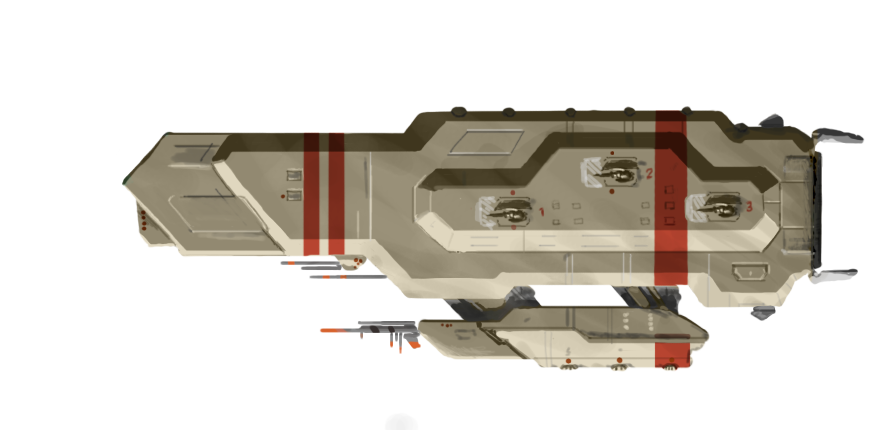
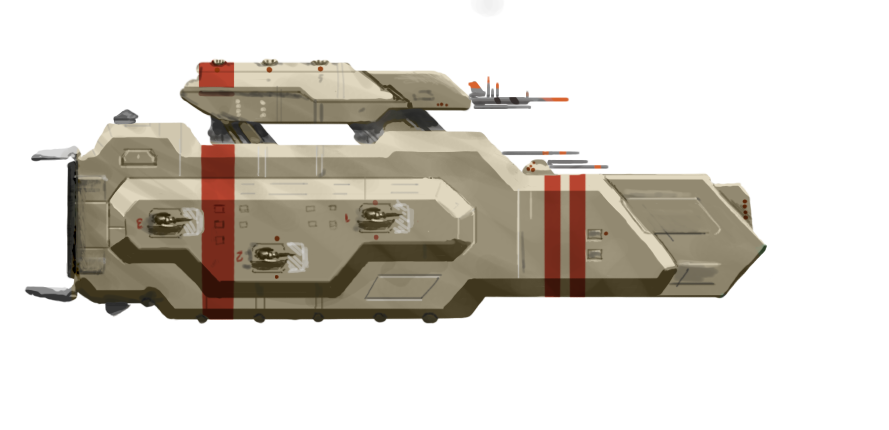
Rotated the ship image so it is pointing to 0 degrees.
Multiplayer inputs are now possible. The player can move in a reasonably comfortable manner now. 

The physics bug is not fixed, but worked around.

diff --git a/src/ammo/game/gameobjects/playerobject.cpp b/src/ammo/game/gameobjects/playerobject.cpp
@@ -24,13 +24,16 @@ namespace ammo
     }
     if (_input.GetValue(ammo::enums::THRUST) > 0.0f )
     {
+      
       float theta = _physic.GetTheta();
       float thrust = THRUST_RATE;
       if (_input.GetValue(ammo::enums::AFTERBURN) > 0.0f)
       {
         thrust *= BURN_MULTIPLIER;
       }
-      _physic.SetVelocity(_physic.GetVelocity() + thrust * (b2Vec2((float)cos(theta), (float)sin(theta))));
+      //cout << _physic.GetVelocity().x << " " << thrust << " "<< (float)cos(theta) << " " << (float)sin(theta) << endl;      
+      _physic.SetVelocity(_physic.GetVelocity() + thrust * b2Vec2((float)cos(theta), (float)sin(theta)));
+      //_physic.SetVelocity(b2Vec2(1.f, 1.f));
     }    
     if (_input.GetValue(ammo::enums::REVERSE) > 0.0f )
     {
@@ -38,16 +41,34 @@ namespace ammo
       _physic.SetVelocity(_physic.GetVelocity() - THRUST_RATE * (b2Vec2((float)cos(theta), (float)sin(theta))));
     }
 
-    // Cap our velocity
-    if (_physic.GetVelocity().LengthSquared() > MAX_SPEED_SQUARED)
-    {
-      _physic.GetVelocity().Normalize();
-      _physic.SetVelocity(MAX_SPEED * _physic.GetVelocity());
-    }
 
+
+      // Cap our velocity
+      if (_physic.GetVelocity().LengthSquared() > MAX_SPEED_SQUARED)
+      {      
+        
+        float x = _physic.GetVelocity().x;
+        float y = _physic.GetVelocity().y;
+        
+        float len = sqrt((x*x)+(y*y));
+        b2Vec2 norm(x/len, y/len);
+        
+
+        norm *= MAX_SPEED;
+        
+        _physic.SetVelocity(norm);
+        //float test = _physic.GetVelocity().Normalize();
+        
+        //_physic.SetVelocity(MAX_SPEED * _physic.GetVelocity());
+      }
+    
+    //cout << "Server: " << _physic.GetVelocity().x << " " << _physic.GetVelocity().y << " " << _physic.GetPosition().x << " " << _physic.GetPosition().y << endl;
+    
+      //cout << "Client: " << _physic.GetVelocity().x << " " << _physic.GetVelocity().y << " " << _physic.GetPosition().x << " " << _physic.GetPosition().y << endl;
     // Update our sprite's information 
     _sprite.SetPosition(_physic.GetPosition());     
     _sprite.SetRotationRadians(_physic.GetTheta());
+    
     
   }
   // Serializes the player. If the player is on the client, it serializes only the input information,
@@ -101,7 +122,7 @@ namespace ammo
   {
     // Get our sprite
     _sprite = _parent->GetGraphicSys()->getGraphic("player");
-    _sprite.SetSize(b2Vec2(9.8f,25.6f));        
+    _sprite.SetSize(b2Vec2(2.56f,.98f));        
     
     _sprite.show();
 
@@ -110,18 +131,19 @@ namespace ammo
     
     // Get our 'physic'
     _physic = _parent->GetPhysicsSys()->GetPhysic("player", *this);
-    //_physic.SetPosition(b2Vec2(0.0f, 0.0f));
+    _physic.SetPosition(b2Vec2(1.0f, 1.0f));
     // Give the player some initial velocity
-    _physic.SetVelocity(b2Vec2(0.0f, 0.0f));
+    _physic.SetVelocity(b2Vec2(.125f, 0.0f));    
     // And some initial rotation, for fun
     _physic.SetOmega(0.0f);
 
-    _input = _parent->GetInputSys()->GetInput("player");
+    
     // Point our local gamestate's camera at us
     if (!_parent->GetGameState()->GetIsAuthority() && _parent->GetNetPeer()->GetLocalAddress() == _owner)
     {
       // But only if this is a client, and this is our player
       _parent->SetCameraTarget((ICameraTarget*)(&_physic));
+      _input = _parent->GetInputSys()->GetInput(_owner);
     }
   }
 
@@ -139,6 +161,7 @@ namespace ammo
   bool PlayerObject::SerializeServerSide(RakNet::BitStream* bitStream, RakNet::SerializationContext* serializationContext)
   {    
     bitStream->Write(_physic.GetPosition());
+    bitStream->Write(_physic.GetVelocity());
     bitStream->Write(_physic.GetTheta());
     bitStream->Write(_physic.GetOmega());
     return true;
@@ -149,11 +172,17 @@ namespace ammo
   {
     b2Vec2 temp;
     float ftemp;
+    bitStream->Read(temp);    
+    _physic.SetPosition(temp);    
+
     bitStream->Read(temp);
+    _physic.SetVelocity(temp);
+    
+
     bitStream->Read(ftemp);
-    _physic.SetPosition(temp);
     _physic.SetTheta(ftemp);
-    (*bitStream) >> ftemp;
+  
+    bitStream->Read(ftemp);
     _physic.SetOmega(ftemp);
 
     return true;

diff --git a/src/ammo/game/client.cpp b/src/ammo/game/client.cpp
@@ -21,7 +21,7 @@ namespace ammo
     // Set up our viewport
     // TODO: Don't Hardcode these!
     _view = new ammo::View(*_app);
-    _view->setWidth(200);
+    _view->setWidth(40);
     _view->lookAt(b2Vec2(0, 0));
 
     _gameState = new ProxyGameState(this);
@@ -42,23 +42,17 @@ namespace ammo
     // Create our physics blueprints
     // TODO: Create these from a file
     Polygon myPoly;   
-    myPoly.polygon_blueprint.density = 1;
-    myPoly.polygon_blueprint.SetAsBox(4.8f, 12.8f);             
+    myPoly.polygon_blueprint.density = .1;
+    myPoly.polygon_blueprint.friction = 0;
+    myPoly.polygon_blueprint.SetAsBox(.48f, 1.28f);             
     _physic->AddBluePrint("player", myPoly);
+    _peer = new NetPeer(this, false);
     
-
     // Create our input system
     _input = new InputSys();
-    std::vector<ammo::InputAction*> actions;
-    actions.push_back(new SingleKeyBoolean(sf::Key::W, enums::THRUST));
-    actions.push_back(new SingleKeyBoolean(sf::Key::A, enums::LEFT));
-    actions.push_back(new SingleKeyBoolean(sf::Key::D, enums::RIGHT));
-    actions.push_back(new SingleKeyBoolean(sf::Key::S, enums::REVERSE));
-    actions.push_back(new SingleKeyBoolean(sf::Key::LControl, enums::AFTERBURN));
-    //actions.push_back(// Some input action
-    _input->AddInputMap("player", actions);
+    
 
-    _peer = new NetPeer(this, false);
+    
     _isDestroyed = false;
   }
 
@@ -150,6 +144,26 @@ namespace ammo
 
   bool Client::Connect(const char* host,unsigned short remotePort, const char* passwordData,int pwdDataLength)
   {
-    return _peer->Connect(host, remotePort, passwordData, pwdDataLength);
+    
+    bool result = _peer->Connect(host, remotePort, passwordData, pwdDataLength);
+
+    if (result)
+    {
+    #ifdef WIN32
+        Sleep(500);
+    #else
+        usleep(500*1000);
+    #endif
+    std::vector<ammo::InputAction*> actions;
+    actions.push_back(new SingleKeyBoolean(sf::Key::W, enums::THRUST));
+    actions.push_back(new SingleKeyBoolean(sf::Key::A, enums::LEFT));
+    actions.push_back(new SingleKeyBoolean(sf::Key::D, enums::RIGHT));
+    actions.push_back(new SingleKeyBoolean(sf::Key::S, enums::REVERSE));
+    actions.push_back(new SingleKeyBoolean(sf::Key::LControl, enums::AFTERBURN));
+    //actions.push_back(// Some input action
+    _input->AddInputMap(_peer->GetLocalAddress(), actions);
+    }
+
+    return result;
   }
 }

diff --git a/src/ammo/game/server.cpp b/src/ammo/game/server.cpp
@@ -20,13 +20,13 @@ namespace ammo
     _sound = new PassiveSoundSys();
     _physic = new ActivePhysicSys();
     _input = new InputSys();
-    std::vector<ammo::InputAction*> actions;
-    _input->AddInputMap("player", actions);
+    
     // Add our Physics Blueprints
     // TODO: Read these from some sort of file
     Polygon myPoly;
-    myPoly.polygon_blueprint.density = 1;
-    myPoly.polygon_blueprint.SetAsBox(4.8f, 12.8f);//, b2Vec2(4.8f, 12.8f), 0.0f);
+    myPoly.polygon_blueprint.density = .1f;
+    myPoly.polygon_blueprint.friction = 0.f;
+    myPoly.polygon_blueprint.SetAsBox(.48f, 1.28f);//, b2Vec2(4.8f, 12.8f), 0.0f);
     _physic->AddBluePrint("player", myPoly);
   }
 
@@ -77,6 +77,9 @@ namespace ammo
       case ID_NEW_INCOMING_CONNECTION:				
         printf("ID_NEW_INCOMING_CONNECTION from %s\n", packet->systemAddress.ToString());   
         // When a new player connects, we need to add that player object to the game
+        
+        _input->AddInputMap(packet->systemAddress, std::vector<ammo::InputAction*>());
+
         newPlayer = new PlayerObject(packet->systemAddress);
         newPlayer->AddAutoSerializeTimer(0);        
         _gameState->RegisterGameObject(newPlayer);

diff --git a/src/ammo/input/input_sys.cpp b/src/ammo/input/input_sys.cpp
@@ -6,15 +6,15 @@
 
 namespace ammo
 {
-    void InputSys::AddInputMap(std::string name, std::vector<InputAction*> inputMap)
+    void InputSys::AddInputMap(SystemAddress owner, std::vector<InputAction*> inputMap)
     {
         InputImpl impl(inputMap);
-        _impls.insert(std::make_pair(name, impl));
+        _impls.insert(std::make_pair(owner, impl));
     }
 
-    Input InputSys::GetInput(std::string name)
+    Input InputSys::GetInput(SystemAddress owner)
     {
-        InputImpl* impl = &(_impls.find(name)->second);
+        InputImpl* impl = &(_impls.find(owner)->second);
         impl->Activate();
         Input input(impl);
         return input;
@@ -22,7 +22,7 @@ namespace ammo
 
     void InputSys::Update(const sf::Input& input, float dt)
     {
-        for (std::map<std::string, InputImpl>::iterator it = _impls.begin(); it != _impls.end(); ++it)
+        for (std::map<SystemAddress, InputImpl>::iterator it = _impls.begin(); it != _impls.end(); ++it)
         {
             if (it->second.IsActive())
                 it->second.Update(input, dt);

diff --git a/src/ammo/input/input_sys.hpp b/src/ammo/input/input_sys.hpp
@@ -11,20 +11,23 @@
 #include "ammo/enums/playeractions.hpp"
 #include "ammo/input/input_impl.hpp"
 
+#include "RakNetTypes.h"
+
 namespace ammo
 {
     class InputAction;
     class Input;
+    
 
     class InputSys
     {
     public:
-        void AddInputMap(std::string name, std::vector<InputAction*> inputs);
-        Input GetInput(std::string name);
+        void AddInputMap(SystemAddress owner, std::vector<InputAction*> inputs);
+        Input GetInput(SystemAddress owner);
         void Update(const sf::Input& input, float dt);
 
     protected:
-        std::map<std::string, InputImpl> _impls;
+        std::map<SystemAddress, InputImpl> _impls;
     };
 }
 

diff --git a/src/ammo/game/gameobjects/sampleobject.cpp b/src/ammo/game/gameobjects/sampleobject.cpp
@@ -20,7 +20,7 @@ namespace ammo
       }
       else
       {
-        _sprite.SetX(0.f + _myVal);
+        _sprite.SetX(0.f + .25f * _myVal);
         if  (_myVal % 5 == 0)
         {          
           _sound.play();
@@ -50,7 +50,7 @@ namespace ammo
     {
       _sprite = _parent->GetGraphicSys()->getGraphic("player");
       _sprite.SetPosition(b2Vec2(0, 0));
-      _sprite.SetSize(b2Vec2(9.8f, 25.6f));
+      _sprite.SetSize(b2Vec2(2.56f, .98f));
       _sprite.SetZOrder(1000.0f);
       _sprite.show();
       

diff --git a/src/ammo/game/gameobjects/playerobject.hpp b/src/ammo/game/gameobjects/playerobject.hpp
@@ -10,11 +10,11 @@
 
 #include "RakNetTypes.h"
 
-#define TURN_RATE (.005f)
-#define MAX_SPEED (10.f)
-#define MAX_SPEED_SQUARED (100.f)
+#define TURN_RATE (.01f)
+#define MAX_SPEED (20.f)
+#define MAX_SPEED_SQUARED (400.f)
 #define THRUST_RATE (.02f)
-#define BURN_MULTIPLIER (2.0f)
+#define BURN_MULTIPLIER (4.0f)
 
 namespace ammo
 {
